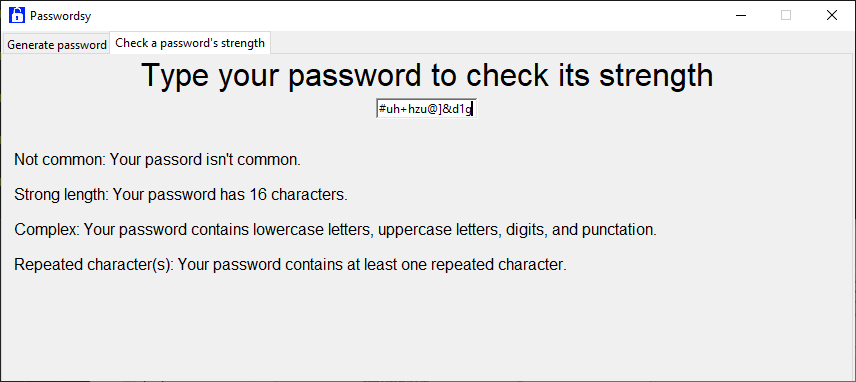
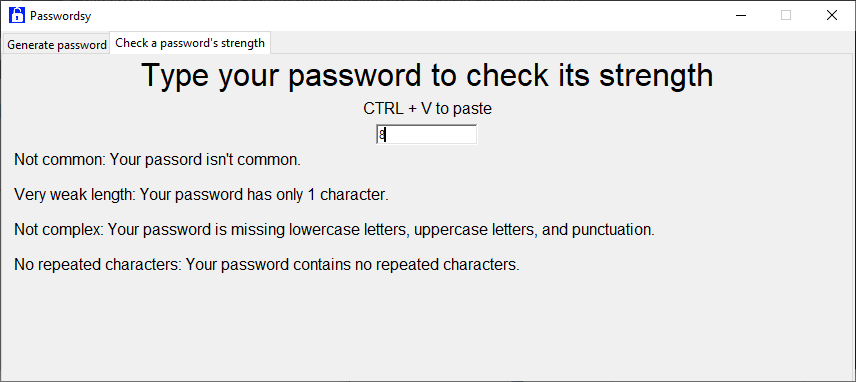
Added 'CTRL + V to paste' to the password strength frame

diff --git a/password_generator/password_strength.py b/password_generator/password_strength.py
@@ -27,9 +27,12 @@ def show_password_strength_frame(frame) -> None:
     instruction_label = tk.Label(frame, text = 'Type your password to check its strength', font = title_font)
     instruction_label.place(relx = 0.5, rely = 0, anchor = 'n')
 
+    tip_label = tk.Label(frame, text = 'CTRL + V to paste', font = warning_font)
+    tip_label.place(relx = 0.5, rely = 0.12, anchor = 'n')
+
     global input_box
     input_box = tk.Entry(frame, width = 16, borderwidth = 2)
-    input_box.place(relx = 0.5, rely = 0.125, anchor = 'n')
+    input_box.place(relx = 0.5, rely = 0.2, anchor = 'n')
     input_box.bind('<KeyRelease>', check_password_strength)
 
     global first_label
